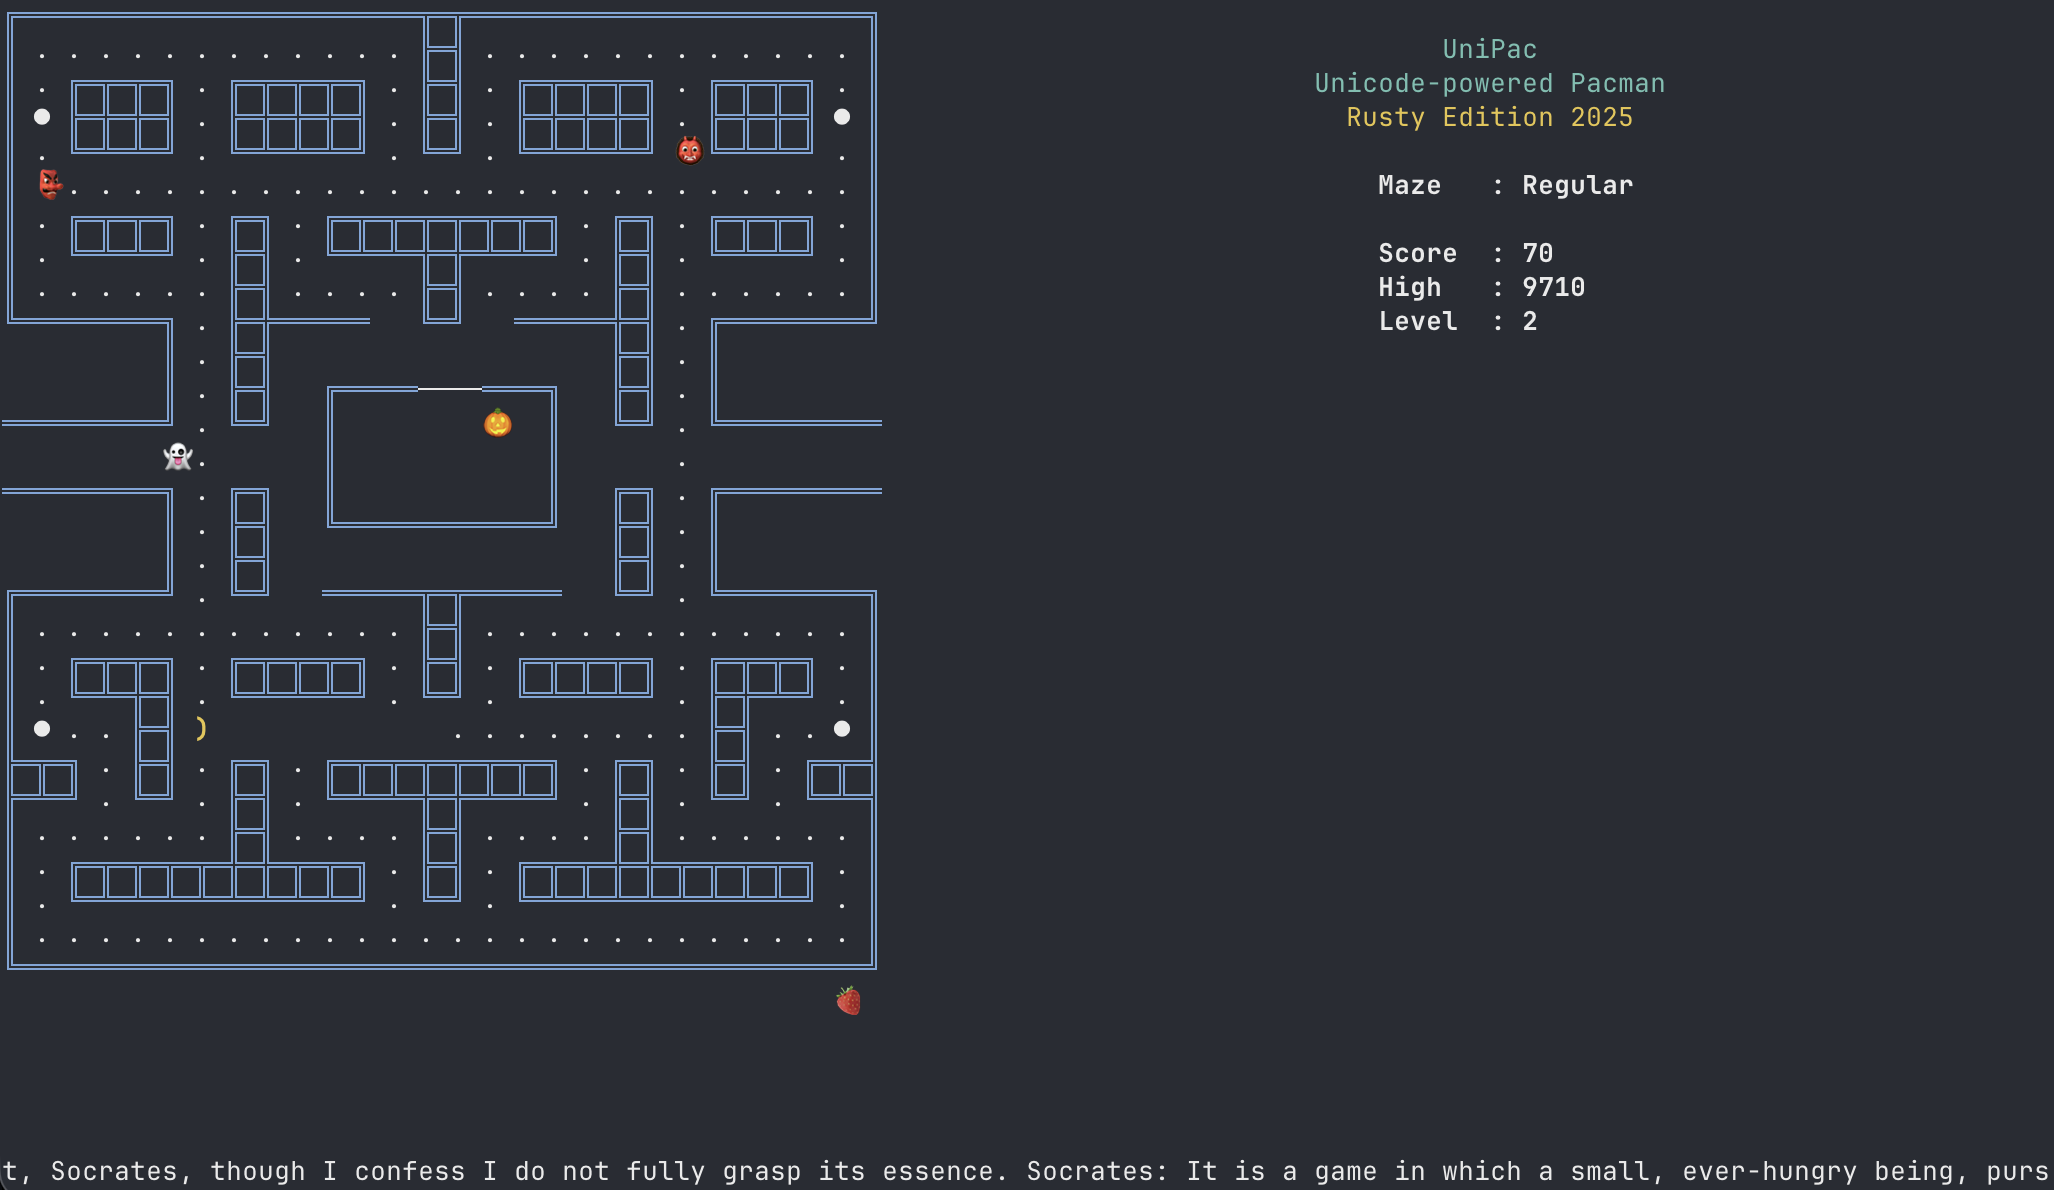
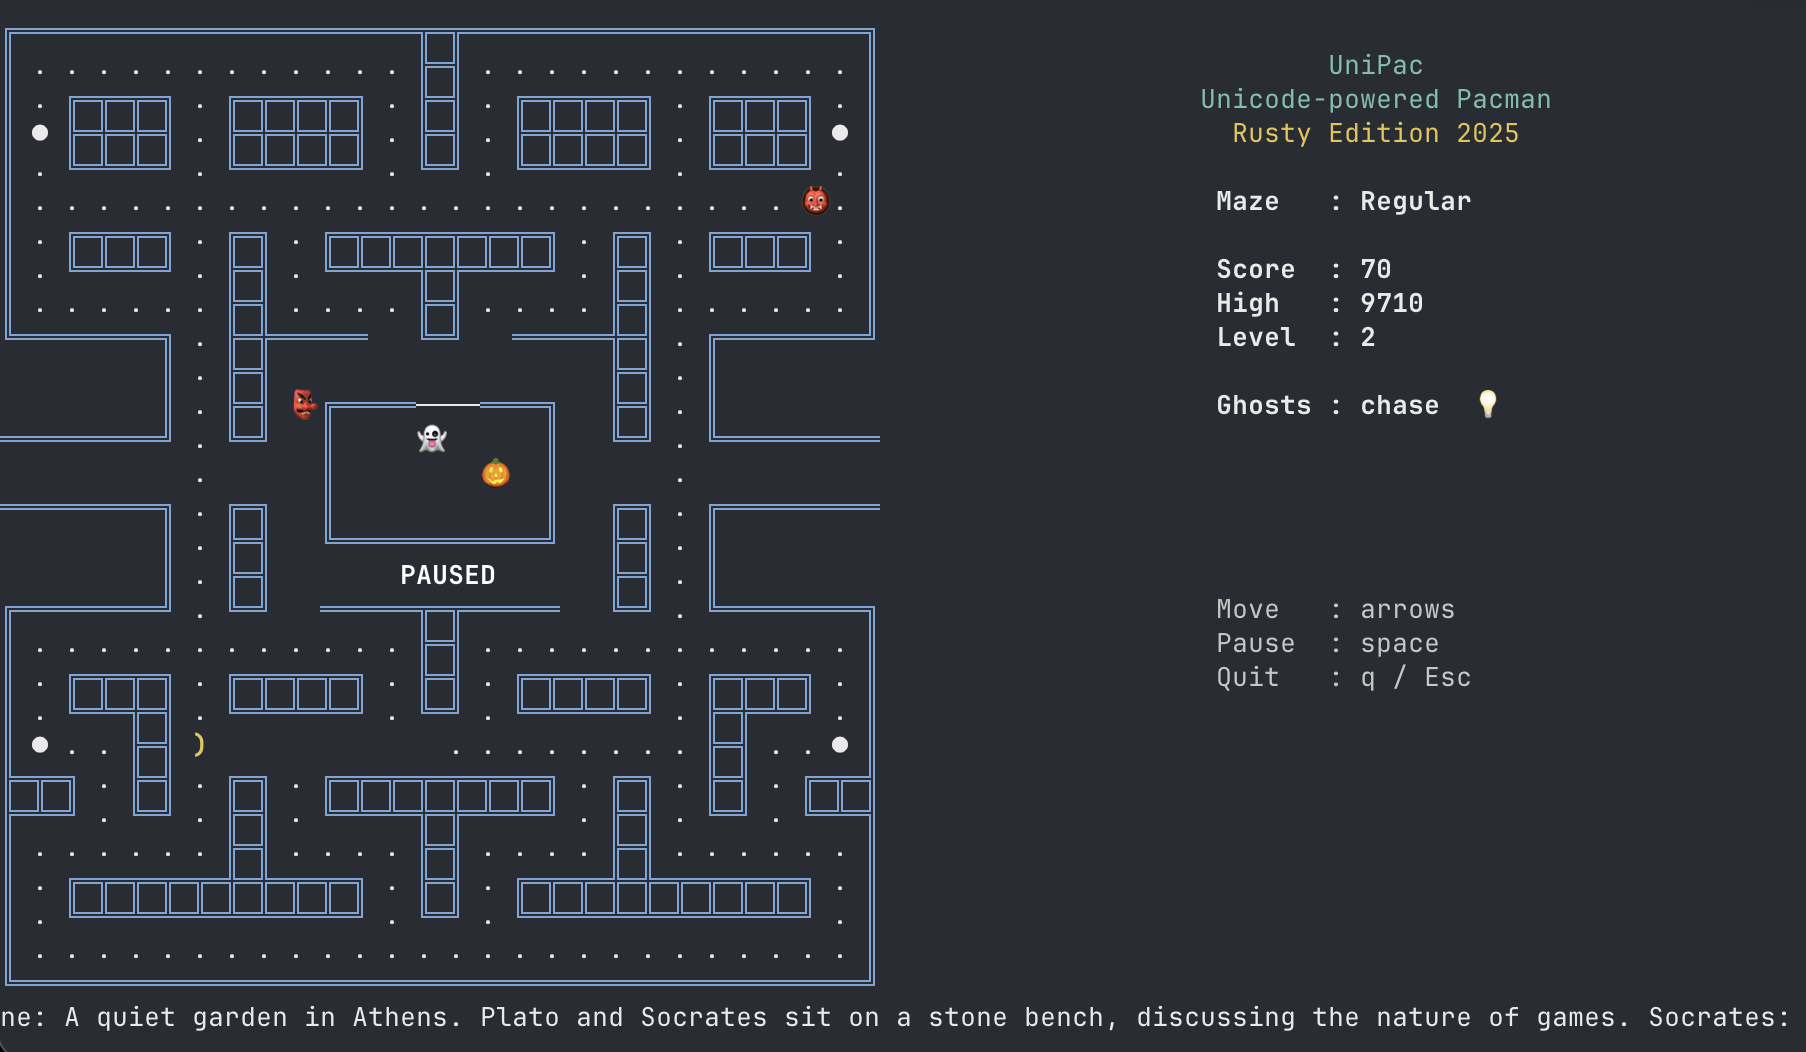
+clap

diff --git a/src/tui.rs b/src/tui.rs
@@ -283,6 +283,14 @@ pub fn another_game(game: &mut Game) -> io::Result<bool> {
     }
 }
 
+const CONTROLS: [&str; 3] = ["Move   : arrows", "Pause  : space", "Quit   : q / Esc"];
+
+/// Left edge of the text block in the right-hand panel: centred on its widest line,
+/// so that no line runs past the edge of an 80 column terminal.
+fn panel_x() -> u16 {
+    centered_x("Maze   : Light Blue")
+}
+
 pub fn render_game_info() -> io::Result<()> {
     // the panel right of the maze is 22 columns wide in an 80 column terminal
     let s1: &str = "UniPac";
@@ -298,7 +306,16 @@ pub fn render_game_info() -> io::Result<()> {
         style::PrintStyledContent(s2.cyan()),
         cursor::MoveTo(centered_x(s3), 3),
         style::PrintStyledContent(s3.yellow()),
-    )
+    )?;
+    // below the 'Another game?' prompt (rows 12 and 14)
+    for (n, s) in CONTROLS.iter().enumerate() {
+        crossterm::queue!(
+            stdout(),
+            cursor::MoveTo(panel_x(), 17 + n as u16),
+            style::PrintStyledContent(s.grey()),
+        )?;
+    }
+    Ok(())
 }
 
 pub fn draw_death_frame<W: io::Write>(w: &mut W, game: &Game, frame_idx: usize) -> io::Result<()> {
@@ -330,18 +347,14 @@ pub fn render_rhs<W: Write>(w: &mut W, game: &Game) -> io::Result<()> {
     //     }
     // }
 
-    let s = if game.period() == Period::Chase {
-        "\u{1F4A1}" // light bulb
+    // the light bulb is an emoji (2 cells) - both variants are 9 cells wide
+    let (mode, bulb) = if game.period() == Period::Chase {
+        ("chase", "\u{1F4A1}")
     } else {
-        "  "
+        ("scatter", "  ")
     };
-    crossterm::queue!(
-        w,
-        cursor::MoveTo(sx(game.board.width) + 2, game.board.height as u16 - 1),
-        style::Print(s)
-    )?;
 
-    let i = centered_x("Score : 123456"); // get a pos base on av score digits
+    let i = panel_x();
     crossterm::queue!(
         w,
         cursor::MoveTo(i, 5),
@@ -352,6 +365,8 @@ pub fn render_rhs<W: Write>(w: &mut W, game: &Game) -> io::Result<()> {
         style::PrintStyledContent(format!("High   : {}", game.high_score).bold().white()),
         cursor::MoveTo(i, 9),
         style::PrintStyledContent(format!("Level  : {}", game.level + 1).bold().white()),
+        cursor::MoveTo(i, 11),
+        style::PrintStyledContent(format!("Ghosts : {mode:<7}{bulb}").bold().white()),
     )?;
     draw_message_at(
         w,
@@ -413,4 +428,21 @@ pub fn draw_ghosts<W: Write>(w: &mut W, game: &Game) -> io::Result<()> {
         )?;
     }
     Ok(())
+}
+
+#[cfg(test)]
+mod tests {
+    use super::*;
+    use crate::board::Board;
+
+    #[test]
+    fn panel_lines_fit_the_widest() {
+        let widest = "Maze   : Light Blue".len();
+        for level in 0..8 {
+            let name = Board::new(level).maze_name;
+            assert!(format!("Maze   : {name}").len() <= widest, "{name}");
+        }
+        assert!(CONTROLS.iter().all(|s| s.len() <= widest));
+        assert!("Ghosts : scatter  ".len() <= widest);
+    }
 }

diff --git a/src/main.rs b/src/main.rs
@@ -1,3 +1,4 @@
+use clap::Parser;
 use std::io::{self, Write, stdout};
 use std::{thread, time};
 
@@ -7,6 +8,13 @@ mod maze;
 mod tui;
 use audio::{AM, Sound};
 use board::{Board, Direction, Direction::*, Position, Square};
+
+#[derive(Parser, Debug)]
+#[command(author, version, about = "UniPac - Tui pacman", long_about = None)]
+struct Config {
+    #[arg(short, long, help = "Level", default_value_t = 0)]
+    level: u32,
+}
 
 static MARQUEE: &str = "Title: A Dialogue Between Plato and Socrates on Pac-Man. \
     Scene: A quiet garden in Athens. Plato and Socrates sit on a stone bench, discussing the nature of games. \
@@ -182,9 +190,15 @@ impl Fruit {
     }
 }
 
-impl Game {
-    fn new() -> Self {
+impl Default for Game {
+    fn default() -> Self {
         let level = 0u32;
+        Game::new(level)
+    }
+}
+
+impl Game {
+    fn new(level: u32) -> Self {
         let board = Board::new(level);
         let player = Player::new(board.pacman_start);
         let mut game = Game {
@@ -595,6 +609,8 @@ fn game_loop(game: &mut Game) -> io::Result<GameState> {
 }
 
 fn main() -> io::Result<()> {
+    let args = Config::parse();
+
     // make sure crossterm doesn't leave the terminal in a raw state in case of panics
     let original_hook = std::panic::take_hook();
     std::panic::set_hook(Box::new(move |panic_info| {
@@ -605,7 +621,7 @@ fn main() -> io::Result<()> {
 
     tui::init_render()?;
     loop {
-        let mut game = Game::new();
+        let mut game = Game::new(args.level);
         game.run()?;
         if !tui::another_game(&mut game)? {
             break;

diff --git a/README.md b/README.md
@@ -29,7 +29,7 @@ Arrow keys to steer, space to pause, q to quit.
   cargo run --release   # run from the repo root: Audio/ is loaded relative to the current directory
 ```
 
-![Game UI](https://raw.githubusercontent.com/jesper-olsen/UniPac/main/Screenshot.png) 
+![Game UI](demo.gif) 
 
 
 
